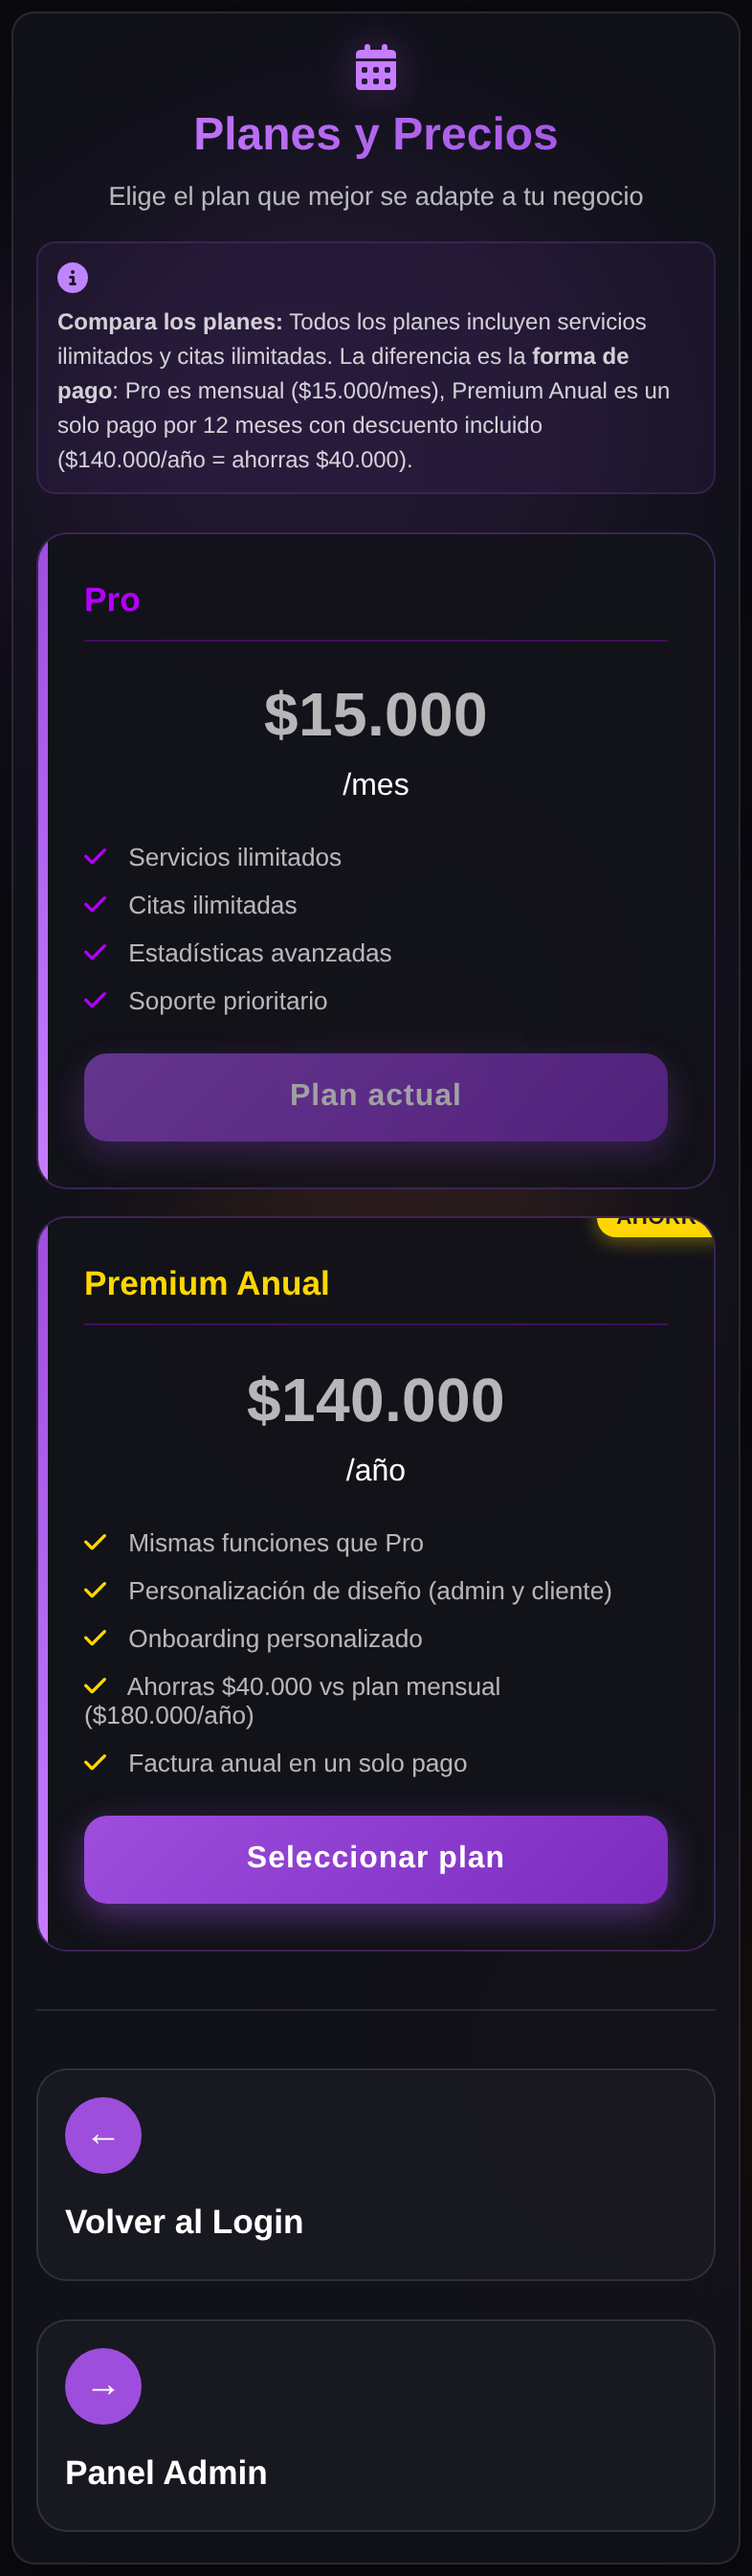
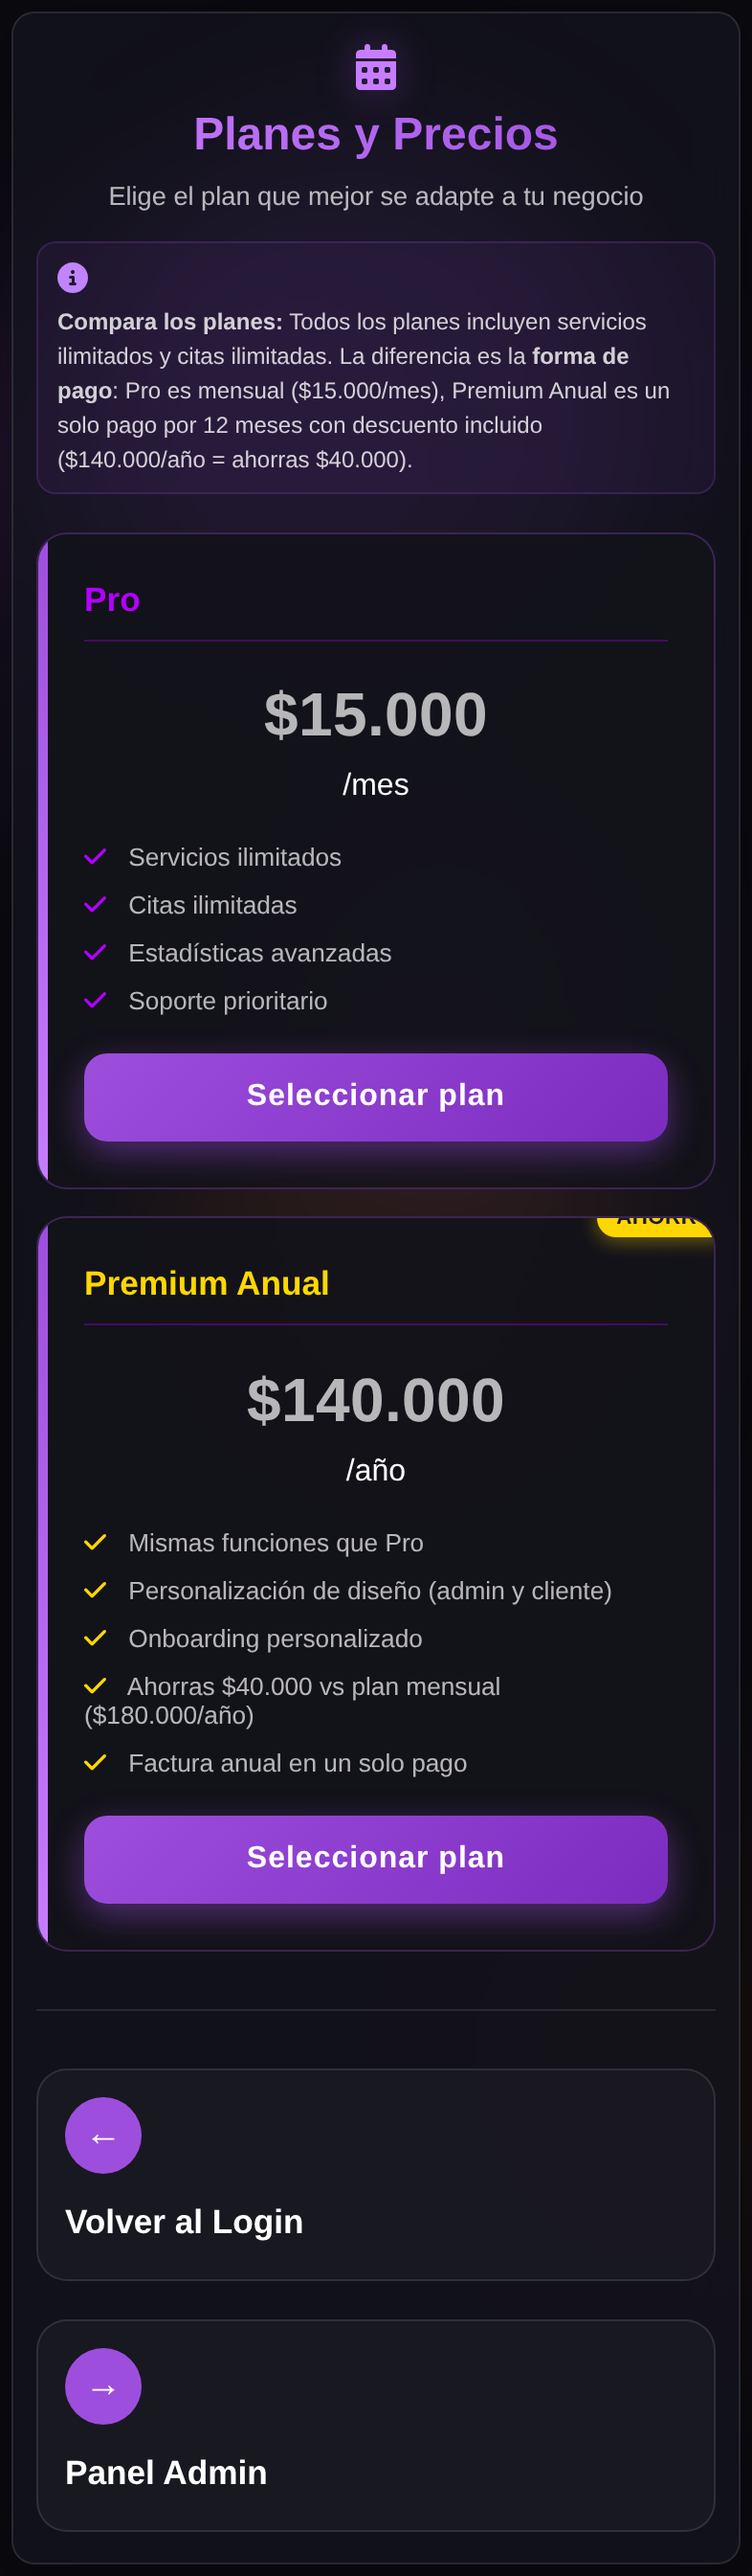
mejora movil 6: planes en ambas rutas de render (moderna tarjetas blancas y legacy) → glass oscuro del tema en PC y movil; botones btn-primary/btn-success tematizados

Changed region(s): [[0.0916, 0.4059, 0.8855, 0.4684]]

diff --git a/planes-both.js b/planes-both.js
@@ -1,0 +1,97 @@
+#!/usr/bin/env node
+/** planes-both.js — verifica planes.html en PROD (navegador limpio) en desktop 1440px y móvil 393px, con sesión real. */
+const { chromium } = require('playwright');
+const fs = require('fs');
+const SUPABASE_URL = 'https://dfcfimipkfhitlsyixqu.supabase.co';
+const KEY = fs.readFileSync('/tmp/agendapro-key-clean.txt', 'utf8').trim();
+const URL = process.env.PLANES_URL || 'https://agenda-pro-red.vercel.app/planes.html';
+
+async function loginREST() {
+  const res = await fetch(`${SUPABASE_URL}/auth/v1/token?grant_type=password`, {
+    method: 'POST', headers: { apikey: KEY, 'Content-Type': 'application/json' },
+    body: JSON.stringify({ email: 'admin@demo.com', password: 'demo123' }),
+  });
+  if (!res.ok) throw new Error('login fail ' + res.status);
+  return res.json();
+}
+
+async function checkViewport(browser, name, width, height, session) {
+  const u = session.user, meta = u.user_metadata || {};
+  const ud = JSON.stringify({ id: u.id, nombre: meta.nombre || 'Admin', email: u.email, rol: meta.rol || 'admin', tenant_id: meta.tenant_id, whatsapp: meta.whatsapp || '' });
+  const ctx = await browser.newContext({
+    viewport: { width, height }, deviceScaleFactor: width < 768 ? 2 : 1, isMobile: width < 768, hasTouch: width < 768,
+    userAgent: width < 768
+      ? 'Mozilla/5.0 (Linux; Android 13; 22111317G Build/TKQ1.220829.002) AppleWebKit/537.36 (KHTML, like Gecko) Chrome/120.0.0.0 Mobile Safari/537.36'
+      : 'Mozilla/5.0 (Windows NT 10.0; Win64; x64) AppleWebKit/537.36 (KHTML, like Gecko) Chrome/120.0.0.0 Safari/537.36',
+  });
+  await ctx.addInitScript(([at, rt, ud]) => {
+    localStorage.setItem('agendapro_access_token', at);
+    localStorage.setItem('agendapro_refresh_token', rt);
+    localStorage.setItem('agendapro_user_data', ud);
+  }, [session.access_token, session.refresh_token, ud]);
+  const page = await ctx.newPage();
+  let ok = false;
+  for (let i = 1; i <= 4 && !ok; i++) {
+    await page.goto(URL, { waitUntil: 'domcontentloaded', timeout: 45000 });
+    await page.waitForTimeout(7000);
+    ok = await page.evaluate(() => !!document.querySelector('.plan-card'));
+    if (!ok) {
+      await page.evaluate(([at, rt, ud]) => {
+        localStorage.setItem('agendapro_access_token', at);
+        localStorage.setItem('agendapro_refresh_token', rt);
+        localStorage.setItem('agendapro_user_data', ud);
+        location.reload();
+      }, [session.access_token, session.refresh_token, ud]);
+      await page.waitForTimeout(7000);
+      ok = await page.evaluate(() => !!document.querySelector('.plan-card'));
+    }
+  }
+  if (!ok) { console.log(`[${name}] NO renderizó planes`); await ctx.close(); return; }
+  await page.waitForTimeout(2000);
+  const r = await page.evaluate(() => {
+    const cs = getComputedStyle.bind(window);
+    const vw = document.documentElement.clientWidth;
+    const cards = Array.from(document.querySelectorAll('.plan-card')).map(el => {
+      const rc = el.getBoundingClientRect();
+      return { w: Math.round(rc.width), h: Math.round(rc.height), txt: el.innerText.replace(/\s+/g, ' ').slice(0, 45) };
+    });
+    const container = document.querySelector('.planes-container .stats-container, #planes-container .stats-container');
+    const cr = container ? container.getBoundingClientRect() : null;
+    const btn = document.querySelector('.select-plan-btn');
+    const bc = btn ? cs(btn) : null;
+    const card0 = document.querySelector('.plan-card');
+    const cc = card0 ? cs(card0) : null;
+    // magenta legacy visible (excluyendo colores de plan inline: h3/checks usan plan.color)
+    const magenta = [];
+    document.querySelectorAll('.plan-card *').forEach((el) => {
+      if (el.offsetParent === null) return;
+      const st = cs(el);
+      if (el.tagName === 'I' && el.className.includes('fa-check')) return; // color de plan (dato)
+      const vals = [st.color, st.backgroundColor, st.borderTopColor, st.borderLeftColor, st.boxShadow || ''];
+      const m = vals.find(v => /b300ff|179\s*,\s*0\s*,\s*255|rgba?\(179/i.test(v || ''));
+      if (m) { const rc = el.getBoundingClientRect(); if (rc.width > 0 && rc.height > 0) magenta.push({ cls: (el.className || '').toString().slice(0, 35), prop: m.slice(0, 45) }); }
+    });
+    return {
+      vw, mq768: matchMedia('(max-width: 768px)').matches,
+      containerGrid: container ? cs(container).gridTemplateColumns : 'n/a',
+      containerW: cr ? Math.round(cr.width) : 0,
+      cards, cardBorder: cc ? cc.borderTopColor + ' / ' + cc.borderLeftColor : '',
+      btnGradient: bc ? bc.backgroundImage.slice(0, 60) : '',
+      btnShadow: bc ? bc.boxShadow.slice(0, 45) : '',
+      magenta, overflowX: document.documentElement.scrollWidth - vw,
+      v16: Array.from(document.styleSheets).some(s => (s.href || '').includes('v=16')),
+    };
+  });
+  console.log(`\n=== ${name} (${width}px) ===`);
+  console.log(JSON.stringify(r, null, 1));
+  await page.screenshot({ path: `responsive-shots/planes-${name}.png`, fullPage: true });
+  await ctx.close();
+}
+
+(async () => {
+  const session = await loginREST();
+  const browser = await chromium.launch({ channel: 'chrome', headless: true });
+  await checkViewport(browser, 'desktop', 1440, 900, session);
+  await checkViewport(browser, 'm393', 393, 852, session);
+  await browser.close();
+})();

diff --git a/style.css b/style.css
@@ -14066,3 +14066,103 @@ input:-moz-autofill {
     .login-screen .screen-navigation { margin-top: 20px !important; }
 }
 
+
+/* ═══════════════════════════════════════════════════════════════
+   PULIDO PLANES v17 — AMBAS RUTAS DE RENDER (PC y móvil)
+   planes.html tiene DOS renders en carrera (Strangler Fig):
+   1) Moderno (PlansView.js): tarjetas BLANCAS inline width:280px,
+      botones .btn-primary/.btn-success SIN estilos (default browser)
+   2) Legacy (script.js cargarPlanes): .stat-box.plan-card + .btn-grad
+   Este bloque lleva AMBAS al tema oscuro glass, en PC y móvil.
+   Scope .login-screen .plans-container / .plan-card → el formulario
+   de login queda intacto.
+   ═══════════════════════════════════════════════════════════════ */
+
+/* ── RENDER MODERNO (PlansView.js) — tarjetas glass oscuras ── */
+.login-screen .plans-container .plan-card {
+    background: rgba(18, 18, 24, 0.75) !important;
+    border: 1px solid rgba(157, 78, 221, 0.35) !important;
+    border-radius: 16px !important;
+    color: #e0e0e0 !important;
+    box-shadow: 0 8px 28px rgba(0, 0, 0, 0.35) !important;
+}
+/* Plan actual resaltado (el borde de color del plan lo marca el botón disabled) */
+.login-screen .plans-container .plan-card:has(.btn[disabled]) {
+    border-color: rgba(157, 78, 221, 0.7) !important;
+    box-shadow: 0 0 0 1px rgba(157, 78, 221, 0.25), 0 8px 28px rgba(0, 0, 0, 0.35) !important;
+}
+.login-screen .plans-container h2 {
+    color: #fff !important;
+    font-size: 1.4rem !important;
+    display: flex !important;
+    align-items: center !important;
+    gap: 10px !important;
+}
+.login-screen .plans-container .text-muted {
+    color: rgba(255, 255, 255, 0.7) !important;
+}
+.login-screen .plans-container .plan-card h3 {
+    color: #fff !important;
+}
+.login-screen .plans-container .plan-card ul li {
+    color: rgba(224, 224, 224, 0.85) !important;
+}
+.login-screen .plans-container .plan-card ul li .fa-check {
+    color: #00b894 !important;
+}
+/* Botones del render moderno: tema púrpura / éxito / secundario */
+.login-screen .plans-container .btn-pagar-mp,
+.login-screen .plans-container .btn-primary {
+    background: linear-gradient(135deg, var(--primary-color), var(--primary-dark)) !important;
+    border: none !important;
+    border-radius: 12px !important;
+    color: #fff !important;
+    font-weight: 600 !important;
+    padding: 12px 20px !important;
+    min-height: 44px !important;
+    box-shadow: 0 6px 18px rgba(157, 78, 221, 0.4) !important;
+}
+.login-screen .plans-container .btn-activar-trial,
+.login-screen .plans-container .btn-success {
+    background: linear-gradient(135deg, #00b894, #00a381) !important;
+    border: none !important;
+    border-radius: 12px !important;
+    color: #fff !important;
+    font-weight: 600 !important;
+    padding: 12px 20px !important;
+    min-height: 44px !important;
+    box-shadow: 0 6px 18px rgba(0, 184, 148, 0.35) !important;
+}
+.login-screen .plans-container .btn-secondary {
+    background: rgba(255, 255, 255, 0.06) !important;
+    border: 1px solid rgba(157, 78, 221, 0.35) !important;
+    border-radius: 12px !important;
+    color: #e0e0e0 !important;
+    font-weight: 600 !important;
+    padding: 12px 20px !important;
+    min-height: 44px !important;
+}
+
+/* ── RENDER LEGACY (script.js cargarPlanes) — también en desktop ── */
+.login-screen .stat-box.plan-card {
+    border-color: rgba(157, 78, 221, 0.3) !important;
+    border-radius: 16px !important;
+    background: rgba(18, 18, 24, 0.75) !important;
+}
+.login-screen .select-plan-btn {
+    background: linear-gradient(135deg, var(--primary-color), var(--primary-dark)) !important;
+    border: none !important;
+    border-radius: 12px !important;
+    color: #fff !important;
+    box-shadow: 0 6px 18px rgba(157, 78, 221, 0.4) !important;
+    min-height: 44px !important;
+}
+
+@media (max-width: 768px) {
+    /* Render moderno: tarjetas full-width (el inline dice 280px) */
+    .login-screen .plans-container .plan-card {
+        width: 100% !important;
+        max-width: none !important;
+    }
+}
+

diff --git a/superadmin.html b/superadmin.html
@@ -4,7 +4,7 @@
     <meta charset="UTF-8">
     <meta name="viewport" content="width=device-width, initial-scale=1.0">
     <title>Super Admin - Agenda Pro</title>
-    <link rel="stylesheet" href="style.css?v=16">
+    <link rel="stylesheet" href="style.css?v=17">
     <link rel="stylesheet" href="https://cdnjs.cloudflare.com/ajax/libs/font-awesome/6.7.2/css/all.min.css">
     <script src="https://cdn.jsdelivr.net/npm/@supabase/supabase-js@2"></script>
     <script src="https://cdn.jsdelivr.net/npm/chart.js@4.4.0/dist/chart.umd.min.js"></script>

diff --git a/admin.html b/admin.html
@@ -4,7 +4,7 @@
     <meta charset="UTF-8">
     <meta name="viewport" content="width=device-width, initial-scale=1.0">
     <title>Agenda Pro - Panel Admin</title>
-    <link rel="stylesheet" href="style.css?v=16">
+    <link rel="stylesheet" href="style.css?v=17">
     <link rel="stylesheet" href="https://cdnjs.cloudflare.com/ajax/libs/font-awesome/6.4.0/css/all.min.css">
     <link href="https://fonts.googleapis.com/css2?family=Inter:wght@400;600;700&family=Poppins:wght@400;600&display=swap" rel="stylesheet">
 

diff --git a/planes.html b/planes.html
@@ -4,7 +4,7 @@
     <meta charset="UTF-8">
     <meta name="viewport" content="width=device-width, initial-scale=1.0">
     <title>Planes - Agenda Pro</title>
-    <link rel="stylesheet" href="style.css?v=16">
+    <link rel="stylesheet" href="style.css?v=17">
     <link rel="stylesheet" href="https://cdnjs.cloudflare.com/ajax/libs/font-awesome/6.7.2/css/all.min.css">
     <script src="https://cdn.jsdelivr.net/npm/@supabase/supabase-js@2"></script>
     <script type="module" src="dist/app.js"></script>

diff --git a/login.html b/login.html
@@ -4,7 +4,7 @@
     <meta charset="UTF-8">
     <meta name="viewport" content="width=device-width, initial-scale=1.0">
     <title>Organify - Iniciar Sesión</title>
-    <link rel="stylesheet" href="style.css?v=16">
+    <link rel="stylesheet" href="style.css?v=17">
     <link rel="stylesheet" href="https://cdnjs.cloudflare.com/ajax/libs/font-awesome/6.7.2/css/all.min.css">
     <script src="https://cdn.jsdelivr.net/npm/@supabase/supabase-js@2"></script>
     <!-- Cloudflare Turnstile Captcha -->

diff --git a/cliente.html b/cliente.html
@@ -4,7 +4,7 @@
     <meta charset="UTF-8">
     <meta name="viewport" content="width=device-width, initial-scale=1.0">
     <title>Agenda Pro - Catálogo Cliente</title>
-    <link rel="stylesheet" href="style.css?v=16">
+    <link rel="stylesheet" href="style.css?v=17">
     <link rel="stylesheet" href="https://cdnjs.cloudflare.com/ajax/libs/font-awesome/6.7.2/css/all.min.css">
     <script src="https://cdn.jsdelivr.net/npm/@supabase/supabase-js@2"></script>
 </head>

diff --git a/trabajador.html b/trabajador.html
@@ -4,7 +4,7 @@
     <meta charset="UTF-8">
     <meta name="viewport" content="width=device-width, initial-scale=1.0">
     <title>Mi Horario - Agenda Pro</title>
-    <link rel="stylesheet" href="style.css?v=16">
+    <link rel="stylesheet" href="style.css?v=17">
     <link rel="stylesheet" href="https://cdnjs.cloudflare.com/ajax/libs/font-awesome/6.7.2/css/all.min.css">
     <script src="https://cdn.jsdelivr.net/npm/@supabase/supabase-js@2"></script>
     <style>

diff --git a/sw.js b/sw.js
@@ -2,7 +2,7 @@
 // Estrategia: Cache First para assets estáticos, Network Only para API.
 // Se activa solo en visitas repetidas (no cambia la primera carga).
 
-const CACHE_NAME = 'agendapro-v16';
+const CACHE_NAME = 'agendapro-v17';
 const STATIC_ASSETS = [
     '/dist/style.css',
     '/admin.html',
